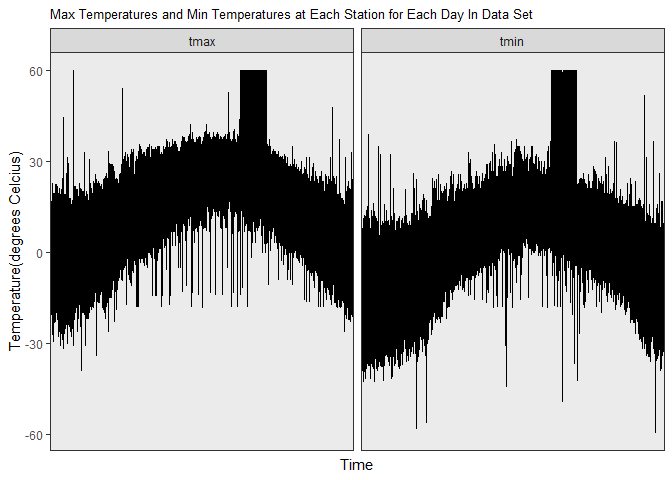
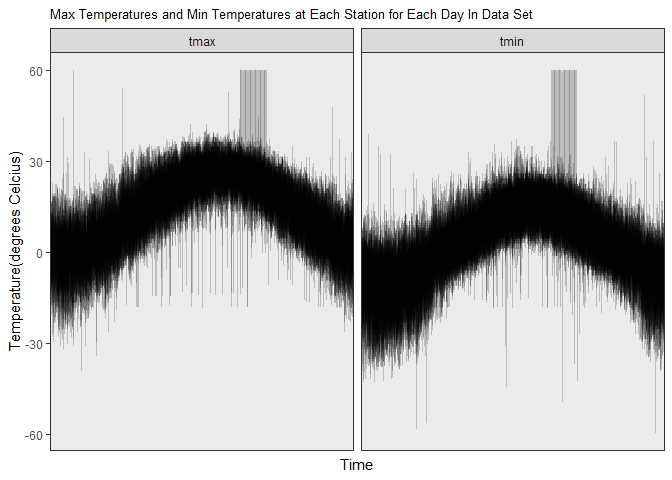
Fixed Figures for Problem 3, added more explanations, and added more comments.

Changed region(s): [[0.0625, 0.4062, 1.0, 0.7812], [0.0625, 0.125, 1.0, 0.5312]]

diff --git a/p8105_hw3_as6183.md b/p8105_hw3_as6183.md
@@ -246,11 +246,12 @@ summarise(.data=accel,Week=week,Day=day,Total_Activity_Per_Day=total_activity_pe
     ## 35    3    Friday                1440.00
 
 The table above shows the total activity per day for each day that
-accelerometer data was recorded. A trend that is apparent to me is that
-the total activity seems to be higher, in general, on Thursdays and
-Fridays when compared to other days of the week. Furthermore, it seems
-that Tuesdays are a very low activity day for this person judging from
-the table.
+accelerometer data was recorded,ordered by descending total activity per
+day so I can analyze which days of the week have higher or lower
+activity. A trend that is apparent to me is that the total activity
+seems to be higher, in general, on Thursdays and Fridays when compared
+to other days of the week. Furthermore, it seems that Tuesdays are a
+very low activity day for this person judging from the table.
 
 ``` r
 ggplot(data=accel,aes(x=day_id,y=total_activity_per_day,color=day))+
@@ -296,15 +297,17 @@ ny_noaa=separate(ny_noaa,col="date",into=c("year","month","day"),sep="-")
 ny_noaa=ny_noaa%>%
   dplyr::arrange(year,month)%>%
   mutate(prcp=prcp/100,snow=snow/10,snwd=snwd/10,tmax=as.integer(tmax)/10,tmin=as.integer(tmin)/10) #converted length measurements to centimeters and temperature measurements to degrees from tenths of a degree
-freq_snowfall = data.frame(table(pull(ny_noaa,snow))) #named variable freq_snowfall because it gives the frequency of snowfall measures
+freq_snowfall = data.frame(table(pull(ny_noaa,snow)))%>%
+  top_n(n=3,wt=Freq)#named variable freq_snowfall because it gives the frequency of snowfall measures
 ```
 
-For snowfall, the most commonly observed values are 0 cm. This is
-probably because there is not that much snow between the months of April
-through October or November in most areas of the United States,
-including New York. Therefore, for most of the year you will see 0 cm of
-snowfall recorded which is why it is the most commonly observed value
-for snowfall.
+For snowfall, the most commonly observed values are 0, 1.3, 2.5 cm. This
+is probably because there is not that much snow between the months of
+April through October or November in most areas of the United States,
+including New York. Therefore, for most of the year you will see 0 cm or
+a low amount, such as 1.3 or 2.5 cm, of snowfall recorded which is why
+it makes sense that 0, 1.3, and 2.5 cm are the most commonly observed
+values for snowfall.
 
 ``` r
 data_avg_tmax = aggregate(pull(ny_noaa,tmax),by = list(pull(ny_noaa,month),pull(ny_noaa,year),pull(ny_noaa,id)),FUN=mean,na.rm=T) #named variable data_avg_tmax because it is a data subset from the ny_noaa data set that aggregates information about the maximum temperature by the mean.
@@ -339,7 +342,8 @@ data_tmax_tmin = select(ny_noaa,c("id","year","month","day","tmax","tmin"))%>%
   na.omit()%>%
   select(-c("month","day","year"))
 ggplot(data_tmax_tmin, aes(x = date, y = Temperature_Val)) +
-  geom_line(size=0.25)+
+  geom_line(size=0.25,alpha=0.2)+
+  stat_smooth()+
   facet_grid(. ~Temperature)+
   theme_bw()+
   theme(axis.text.x = element_blank(),plot.title=element_text(size=10), axis.ticks.x = element_blank())+
@@ -348,18 +352,40 @@ ggplot(data_tmax_tmin, aes(x = date, y = Temperature_Val)) +
   ggtitle("Max Temperatures and Min Temperatures at Each Station for Each Day In Data Set")
 ```
 
+    ## `geom_smooth()` using method = 'loess' and formula 'y ~ x'
+
 ![](p8105_hw3_as6183_files/figure-gfm/unnamed-chunk-12-1.png)<!-- -->
 
+This plot shows the maximum and minimum temperatures for the full data
+set. Overall from both graphs we can see the same trend of a slight
+increase leading to a spike in temperature and then a decrease in
+temperature values. Also, we can see that there are a variety of
+different maximum and minimum temperatures as the lines at every time
+interval (corresponding to the station record) varies greatly. I think
+this plot definitely gives a good idea of the range of snowfall values
+for stations over time and summarizes the overall trend of snowfall very
+nicely.
+
 ``` r
-data_snow_0_10 = filter(ny_noaa,snow<10&snow>0) #named variable data_snow_0_10 because it only contains data from the ny_noaa data set where the snowfall is above 0 cm and below 10 cm (100 mm). 
-data_snow_0_10 = aggregate(pull(data_snow_0_10,snow),by = list(pull(data_snow_0_10,year)),FUN=sum,na.rm=T)
-ggplot(data_snow_0_10,aes(x=Group.1,y=x))+
+data_snow_0_10 = ny_noaa%>%
+  filter(snow<10&snow>0)#named variable data_snow_0_10 because it only contains data from the ny_noaa data set where the snowfall is above 0 cm and below 10 cm (100 mm). 
+data_snow_0_10 = data_snow_0_10%>%
+  group_by(year)
+data_snow_0_10 = data.frame(table(pull(data_snow_0_10,year)))
+ggplot(data_snow_0_10,aes(x=Var1,y=Freq))+
   geom_bar(stat="identity")+
     theme_bw()+
   theme(axis.text.x = element_text(size=8,angle=90),plot.title=element_text(size=11))+
   xlab("Year")+
-  ylab("Snowfall (cm)")+
+  ylab("Frequency of Snowfall between 0 and 10 cm (100 mm)")+
   ggtitle("Distribution of Snowfall between 0 and 10 cm or 100 mm for every year")
 ```
 
-![](p8105_hw3_as6183_files/figure-gfm/unnamed-chunk-12-2.png)<!-- -->
+![](p8105_hw3_as6183_files/figure-gfm/unnamed-chunk-13-1.png)<!-- -->
+From the graph above, it can be seen that there is a significant trend
+upward in the amount of times snowfall between 0 and 100 mm was recorded
+starting in 1998. This could be due to a decrease in snowfall from 1998
+onwards when compared to previous years, thus causing more values
+between 0 and 100 mm to be recorded by weather stations. This makes
+sense due to climate change and global warming that has been occurring
+over the past several years.
